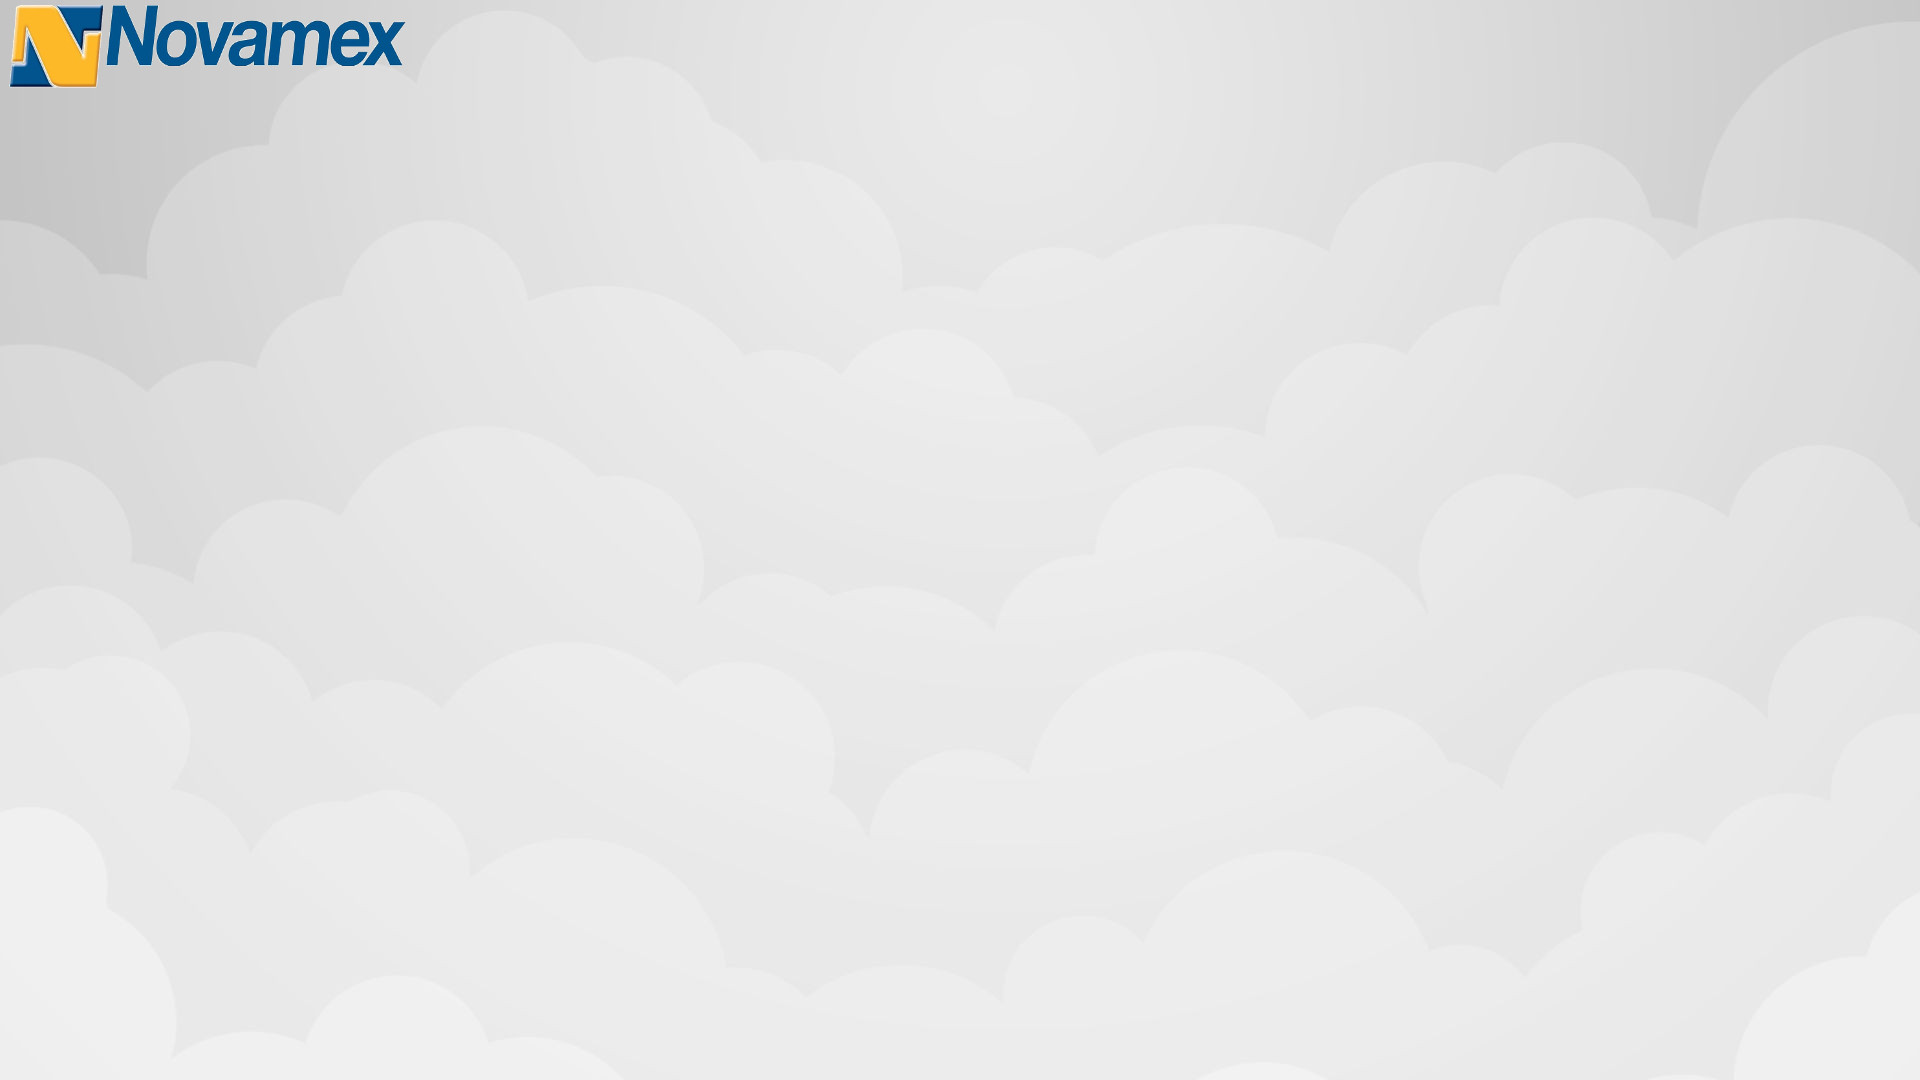
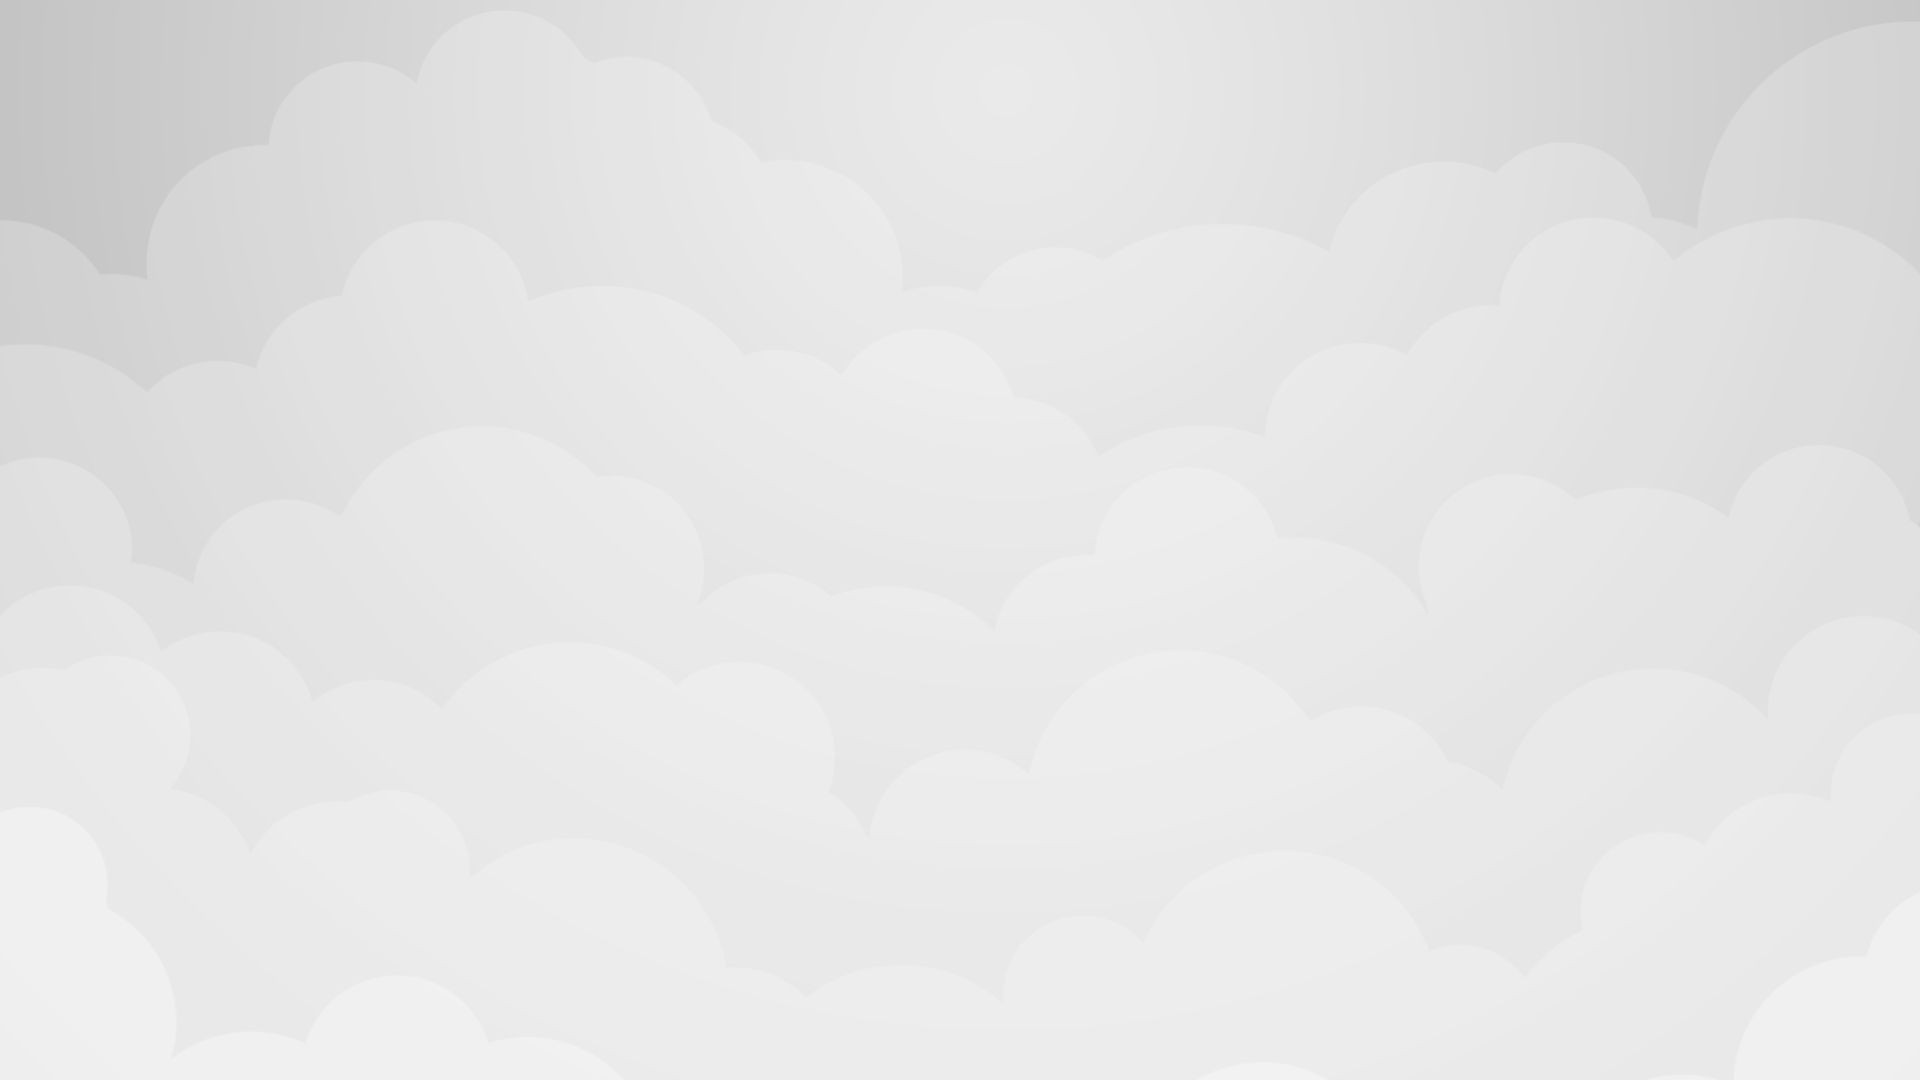
0012016909281112 VIEWPORT

Changed region(s): [[0.0, 0.0, 0.2188, 0.0917]]

diff --git a/novamexfiles/home.php b/novamexfiles/home.php
@@ -65,7 +65,7 @@ $row = $stmt->fetch(PDO::FETCH_ASSOC);
 <head>
 <meta charset="UTF-8">
 
-
+<meta name="viewport" content="width=device-width, initial-scale=1.0">
 <title><?php echo $row['userName'];?>
 </title>
 <link rel="stylesheet" href="https://maxcdn.bootstrapcdn.com/bootstrap/3.3.6/css/bootstrap.min.css">
@@ -91,6 +91,16 @@ div.fixed {
     width: 300px;
  
 }
+div.logo {
+    position: fixed;
+    left: 20px;
+    top: 10px;
+    width: 414px;
+ 
+}
+
+
+
 </style>
 <style>
 /* Firefox old*/
@@ -150,6 +160,10 @@ div.fixed {
 </style>
 </head> 
 <body>
+<div class="logo">
+
+<img src="logonovamex100.png" width="414" height="110" /></a>
+</div>
   <div class="fixed">
   <?php 
   $idioma_actual = $_SESSION['lang'];

diff --git a/novamexfiles/admin_equipos.php b/novamexfiles/admin_equipos.php
@@ -68,13 +68,21 @@ div.fixed {
     width: 300px;
  
 }
+div.logo {
+    position: fixed;
+    left: 20px;
+    top: 10px;
+    width: 414px;
+ 
+}
+
 textarea {
     background: yellow !important;
     color:#000;
     text-shadow:0 1px 0 rgba(0, 0, 0, 0.4);
 }
 body {
-	background-image: url(black.jpg);
+	background-image: url(white.jpg);
 }
 </style>
 <title><?php echo $row['userName']?></title>
@@ -291,6 +299,10 @@ body {
 </style>
 </head> 
 <body>
+<div class="logo">
+
+<img src="logonovamex100.png" width="414" height="110" /></a>
+</div>
 <div class="fixed">
   <?php 
   $idioma_actual = $_SESSION['lang'];

diff --git a/novamexfiles/admin_home.php b/novamexfiles/admin_home.php
@@ -83,8 +83,15 @@ div.fixed {
     width: 300px;
  
 }
+div.logo {
+    position: fixed;
+    left: 20px;
+    top: 10px;
+    width: 414px;
+ 
+}
 body {
-	background-image: url(black.jpg);
+	background-image: url(white.jpg);
 }
 .blink-image {
     -moz-animation: blink normal 2s infinite ease-in-out; /* Firefox */
@@ -152,6 +159,10 @@ body {
 
 </head> 
 <body>
+<div class="logo">
+
+<img src="logonovamex100.png" width="414" height="110" /></a>
+</div>
   <div class="fixed">
   <?php 
   $idioma_actual = $_SESSION['lang'];

diff --git a/novamexfiles/admin_departamentos.php b/novamexfiles/admin_departamentos.php
@@ -68,8 +68,15 @@ div.fixed {
     width: 300px;
  
 }
+div.logo {
+    position: fixed;
+    left: 20px;
+    top: 10px;
+    width: 414px;
+ 
+}
 body {
-	background-image: url(black.jpg);
+	background-image: url(white.jpg);
 }
 textarea {
     background: yellow !important;
@@ -276,6 +283,10 @@ body {
 </style>
 </head> 
 <body>
+<div class="logo">
+
+<img src="logonovamex100.png" width="414" height="110" /></a>
+</div>
 <div class="fixed">
   <?php 
   $idioma_actual = $_SESSION['lang'];

diff --git a/novamexfiles/admin_historico.php b/novamexfiles/admin_historico.php
@@ -73,8 +73,15 @@ div.fixed {
     width: 300px;
  
 }
+div.logo {
+    position: fixed;
+    left: 20px;
+    top: 10px;
+    width: 414px;
+ 
+}
 body {
-	background-image: url(black.jpg);
+	background-image: url(white.jpg);
 }
 </style>
 <style>
@@ -155,6 +162,10 @@ body {
 </style>
 </head> 
 <body>
+<div class="logo">
+
+<img src="logonovamex100.png" width="414" height="110" /></a>
+</div>
   <div class="fixed">
   <?php 
   $idioma_actual = $_SESSION['lang'];

diff --git a/novamexfiles/admin_bu.php b/novamexfiles/admin_bu.php
@@ -73,8 +73,15 @@ div.fixed {
     width: 300px;
  
 }
+div.logo {
+    position: fixed;
+    left: 20px;
+    top: 10px;
+    width: 414px;
+ 
+}
 body {
-	background-image: url(black.jpg);
+	background-image: url(white.jpg);
 }
 </style>
 <style>
@@ -155,6 +162,10 @@ body {
 </style>
 </head> 
 <body>
+<div class="logo">
+
+<img src="logonovamex100.png" width="414" height="110" /></a>
+</div>
  <div class="fixed">
   <?php 
   $idioma_actual = $_SESSION['lang'];

diff --git a/novamexfiles/admin_editar_noticia.php b/novamexfiles/admin_editar_noticia.php
@@ -41,6 +41,13 @@ div.fixed {
     width: 300px;
  
 }
+div.logo {
+    position: fixed;
+    left: 20px;
+    top: 10px;
+    width: 414px;
+ 
+}
 body {
 	background-image: url(white.jpg);
 }
@@ -123,6 +130,10 @@ body {
 </style>
 </head> 
 <body>
+<div class="logo">
+
+<img src="logonovamex100.png" width="414" height="110" /></a>
+</div>
  <div class="fixed">
   <?php 
   $idioma_actual = $_SESSION['lang'];
